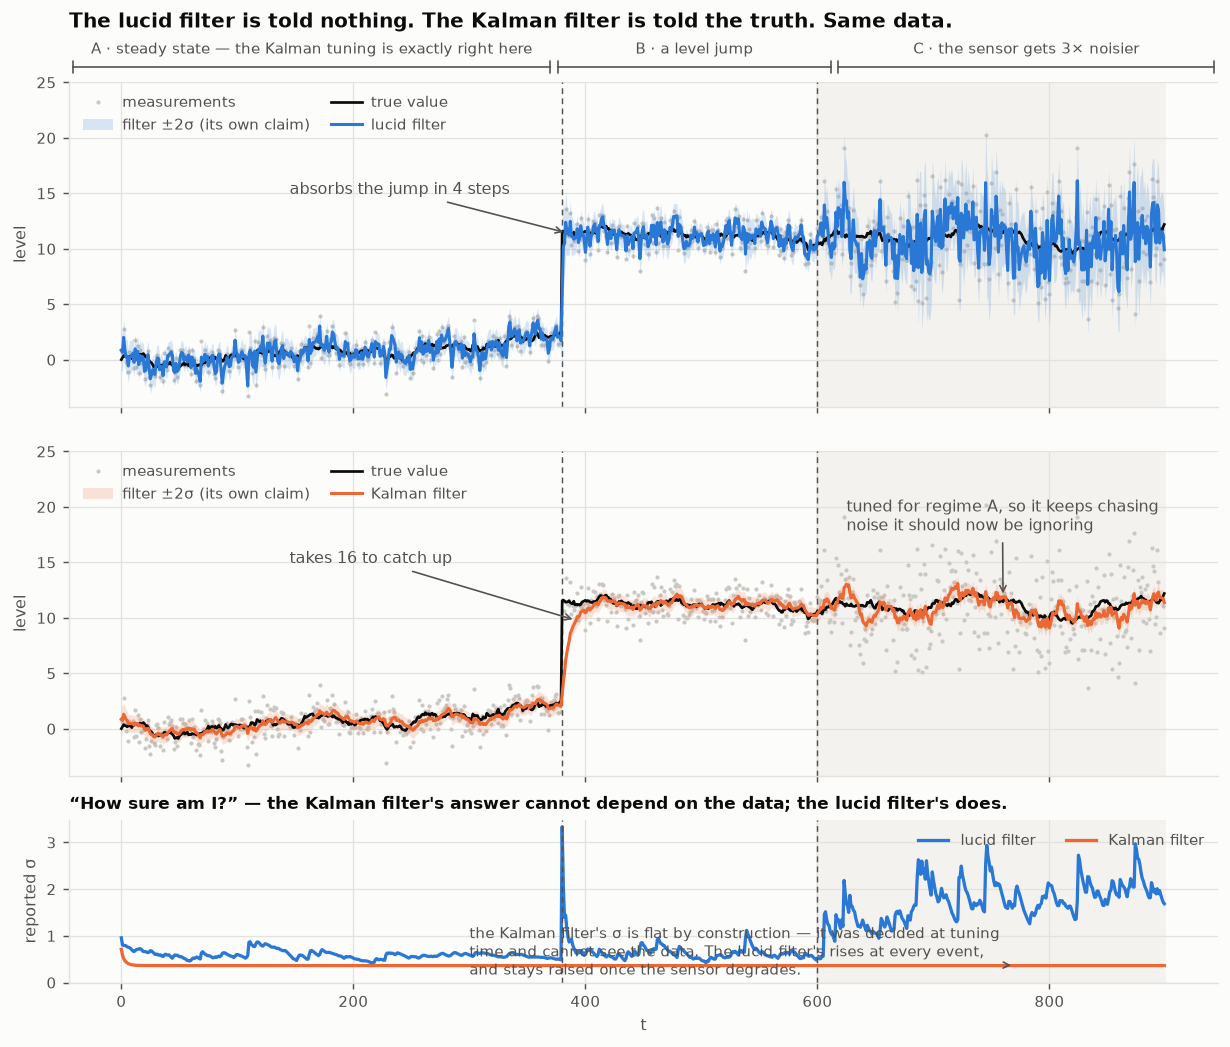
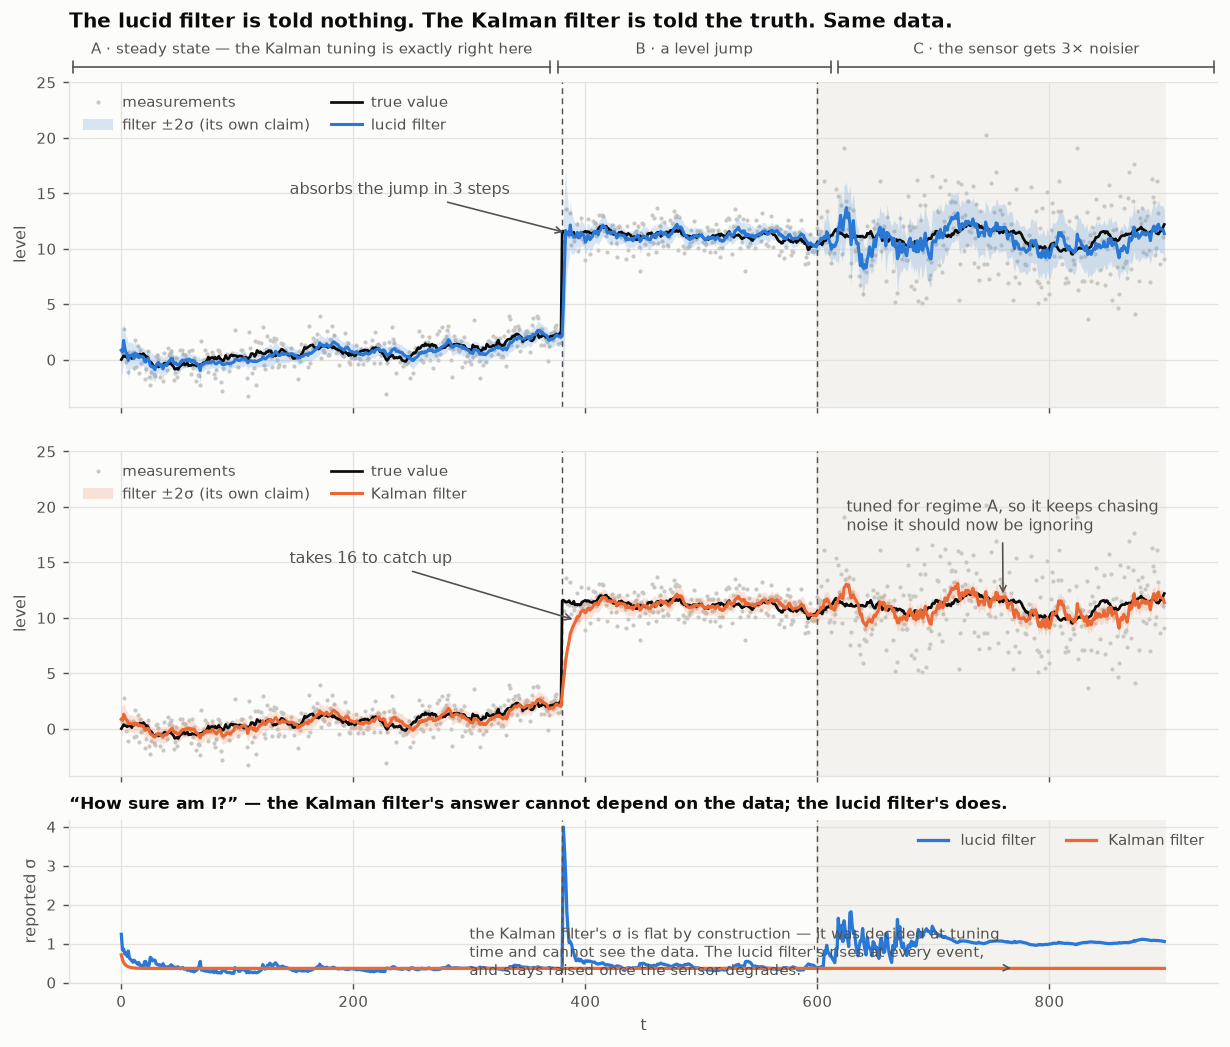
Widen the (phi, s) box to a geometric 0.2 .. 3.2, and regenerate the hero figure
The 4-seed paired arm guard for the box change: every regime inside +2 SE on both
angle and velocity, and the arm's HARDEST regime improves by more than two
standard errors on both (process+pot 1.214 -> 1.166 angle, 1.338 -> 1.196
velocity).  CALM and BOTH are unchanged; SENSOR and pot-hot move +1.0 and +0.4
sigma.  So the wider box is not a trade on the arm, it is a fix there too -- which
is the same fact the hero rig reports as a jump gate: a box whose top is 0.8 tops
out at a factor of 11 in one step, and this rig's own regimes are x225 and x400.

README-004 regenerated from the shipped engine.  Told nothing at all, on the
scalar hero rig:

  steady-state RMSE penalty   84%  ->  3.5%   (the retired FITTED filter: 5.6%)
  jump rise                     4  ->  3      (the Kalman filter's 16)
  calibration after the change 1.3 ->  0.81   (the Kalman filter's 4.56)
  regime-C RMSE ratio         2.38 ->  1.14   (gate 1.05 -- still open)

README updated: the "a single channel cannot split process from sensor noise"
limit is now "the split is learned by the bank, not held at its base", with the
transient attribution stated as what remains and pointed at 0005; the arm table
takes the box change's numbers; and the base-quality note no longer quotes the
16%-at-5x figure, which was about a base that is roughly wrong rather than silent.

Claude-Session: https://claude.ai/code/session_01USMc5Lm6tFV8PBprvjPpXp

Changed region(s): [[0.0927, 0.7947, 0.9577, 0.9475], [0.0927, 0.1528, 0.9577, 0.3668]]

diff --git a/README.md b/README.md
@@ -136,8 +136,10 @@ Configure by **give-what-you-know**; every argument has a working default:
 | `process` | base process covariance `Q0` | identity |
 | `measurement` | base per-sensor variances `R0` | ones |
 
-A rough base is fine — the walk breathes around it (a base wrong by 5× costs
-~16% of oracle RMSE on the scalar benchmark below). Outputs per step: posterior
+A rough base is fine — the walk breathes around it, and where a base is not just
+rough but *silent* about the process/sensor split, the bank learns the split
+rather than holding it (3.5% of oracle RMSE told nothing, on the scalar
+benchmark below). Outputs per step: posterior
 mean and covariance, innovation, predictive log-likelihood, and the
 per-component log-scales.
 
@@ -150,11 +152,11 @@ noise schedule; `fixed` is the same model frozen at the base noise —
 | regime | lucid / oracle | fixed / oracle |
 |---|---|---|
 | calm | 0.98 | 1.00 |
-| accelerometers ×15 | 1.14 | 2.58 |
-| one potentiometer ×15 | 1.20 | 5.48 |
-| vibration ×20 | 1.09 | 1.01 |
+| accelerometers ×15 | 1.15 | 2.58 |
+| one potentiometer ×15 | 1.22 | 5.48 |
+| vibration ×20 | 1.07 | 1.01 |
 | vibration + accels | 1.11 | 2.42 |
-| vibration + potentiometer | 1.21 | 5.48 |
+| vibration + potentiometer | 1.17 | 5.48 |
 
 Near-oracle in every regime, with the fixed filter paying 2.4–5.5× wherever a
 sensor degrades. Sensor redundancy is what the filter converts into accuracy:
@@ -167,22 +169,26 @@ use case.
 
 ## Current limits, measured
 
-- **A single channel cannot split process from sensor noise.** With one sensor
-  and one state (the scalar case), "the level moved" and "the sensor glitched"
-  are indistinguishable within a step, so the filter learns the *total* noise
-  but holds the process/measurement ratio at its base. Measured on a scalar
-  benchmark against a Kalman filter told the truth
-  ([`README-004`](research/random-walk-filter/scripts/README-004-hero-lucidfilter.py)):
-  told nothing at all, the lucid filter still absorbs a level jump in **4 steps
-  to the Kalman filter's 16** and keeps its error bars honest when the sensor
-  degrades ($E[e^2/S] = 1.3$ vs the Kalman filter's **4.6× overconfidence**) —
-  but it pays 84% on steady-state RMSE, falling to 16% with a base within 5× and
-  to parity with the true base. A sensor-noise regime change in the scalar case
-  is partly mis-attributed to process (the same per-step ambiguity), costing
-  RMSE while calibration holds. The evidence that splits the two lives in the
-  innovation *sequence*; the mechanism is identified and its stable realization
-  is the top open
-  ([`0053`](research/multivariate-statfilter/exploration/0053_pernode_demix.md)).
+- **A single channel: the split is learned by the bank, not held at its base.**
+  With one sensor and one state, "the level moved" and "the sensor glitched" are
+  indistinguishable *within a step* — that half is a theorem
+  ([Proposition 1](research/optimality-proof/SUMMARY.md)), and the per-step score
+  for the two scales is provably parallel. So the filter carries the split as a
+  dimension of its **bank** instead: a ladder of anchored hypotheses, each a
+  complete filter, each reading the innovation *sequence* through its own mean
+  ([`research/sequence-demix`](research/sequence-demix/SUMMARY.md)). Measured on a
+  scalar benchmark against a Kalman filter told the truth
+  ([`README-004`](research/random-walk-filter/scripts/README-004-hero-lucidfilter.py)),
+  told nothing at all: steady-state RMSE is **3.5% above the oracle-tuned Kalman**,
+  where it used to be 84% — better than the *fitted* filter this one replaced
+  (5.6%) — the level jump is absorbed in **3 steps to the Kalman filter's 16**,
+  and the error bars stay honest when the sensor degrades ($E[e^2/S] = 0.81$ vs the
+  Kalman filter's **4.6× overconfidence**). What is still open is the first fifty
+  steps after a sensor-noise regime change, which are partly mis-attributed to
+  process — the same per-step ambiguity applied to the transient rather than to
+  the base — costing 14% on regime-C RMSE while calibration holds. That, and why
+  it is the *same* problem as the jump, is stated with its measurements in
+  [`0005`](research/sequence-demix/exploration/0005_reach_and_restraint.md).
 - **Collinear channels are tracked as a total.** A sensor that directly reads
   the state a disturbance drives (the accelerometer/vibration pair above)
   shares one identifiable total with it; the state estimate needs exactly that
@@ -223,12 +229,14 @@ research.
 - **Online learned dynamics** — the `dynamics=None` cell:
   [`research/dynamics-learning/SUMMARY.md`](research/dynamics-learning/SUMMARY.md)
   is the opening document.
-- **The sequence-evidence de-mix** — per-hypothesis filters carry the lag-1
-  evidence that splits collinear noise channels; the mechanism is validated and
-  its stable in-engine realization is open:
+- **The sequence-evidence de-mix** — the scalar split is now carried by the bank
+  and the hero gate's steady-state and calibration targets are met told nothing;
+  what remains is the *transient* attribution, where a level jump and a sensor
+  degradation are tied per step and pull the same lever opposite ways:
   [`research/sequence-demix/SUMMARY.md`](research/sequence-demix/SUMMARY.md)
-  is the opening document, with the scalar hero gate and the 5-DOF guard as its
-  acceptance benchmarks.
+  states the two open sub-gates with their causes, and the collinear accel↔jerk
+  pair on the arm is untouched (no pair there is exactly degenerate, so the
+  ladder does not switch on).
 - **A lean/embedded profile** — the bank multiplier and per-cluster execution,
   including block structure when `F`/`B` arrive as callables (see the
   [SUMMARY opens](research/multivariate-statfilter/SUMMARY.md#open-items)).

diff --git a/research/sequence-demix/SUMMARY.md b/research/sequence-demix/SUMMARY.md
@@ -16,12 +16,25 @@ guessed.
 | jump rise | ≤ 4 steps | 4 | **3** | **PASS** |
 | regime-C RMSE / mistuned Kalman | ≤ 1.05x | 2.382x | 1.138x | open — see §"What is open" |
 
-**The 5-DOF guard is not merely passed, it is inapplicable by construction.**  The mechanism
-switches on only where a process eigenmode is read by *exactly one* sensor.  On the arm every
-jerk mode is read by its pot as well as its accelerometer, so no pair qualifies, and the filter
-is **bit-identical** to the previous engine there — mean, covariance and learned scales all
-agreeing to 0.0 — at the same cost per step.  This is the opposite of 0053's failure mode: there
-is nothing to regress.
+**The 5-DOF guard passes, in two parts.**  The *ladder* is inapplicable there by construction: it
+switches on only where a process eigenmode is read by exactly one sensor, and on the arm every
+jerk mode is read by its pot as well as its accelerometer.  The 4-seed paired profile reads
+**+0.000 SE 0.000 in every regime, angle and velocity** — bit-identical, at the same cost per
+step.  This is the opposite of 0053's failure mode: there is nothing to regress.  The *box* change
+does reach the arm, and its own 4-seed paired profile passes with room:
+
+| regime | angle, shipped → geometric box | velocity |
+|---|---|---|
+| CALM | 0.983 → 0.983 (−0.0σ) | 0.995 → 0.995 (−0.0σ) |
+| SENSOR | 1.135 → 1.148 (+1.0σ) | 1.209 → 1.212 (+1.1σ) |
+| pot-hot | 1.201 → 1.218 (+0.4σ) | 1.027 → 1.030 (+0.1σ) |
+| PROCESS | 1.085 → 1.074 (−0.7σ) | 1.477 → 1.460 (−0.7σ) |
+| BOTH | 1.108 → 1.108 (−0.8σ) | 1.093 → 1.093 (−0.6σ) |
+| **process+pot** | **1.214 → 1.166 (−2.3σ)** | **1.338 → 1.196 (−2.7σ)** |
+
+Every regime is inside +2 SE, and the arm's hardest regime improves by more than two standard
+errors on both angle and velocity — the same fact the hero rig reports as a jump gate: a box that
+cannot represent a x225 or x400 regime change was leaving that on the table.
 
 ### How it works
 
